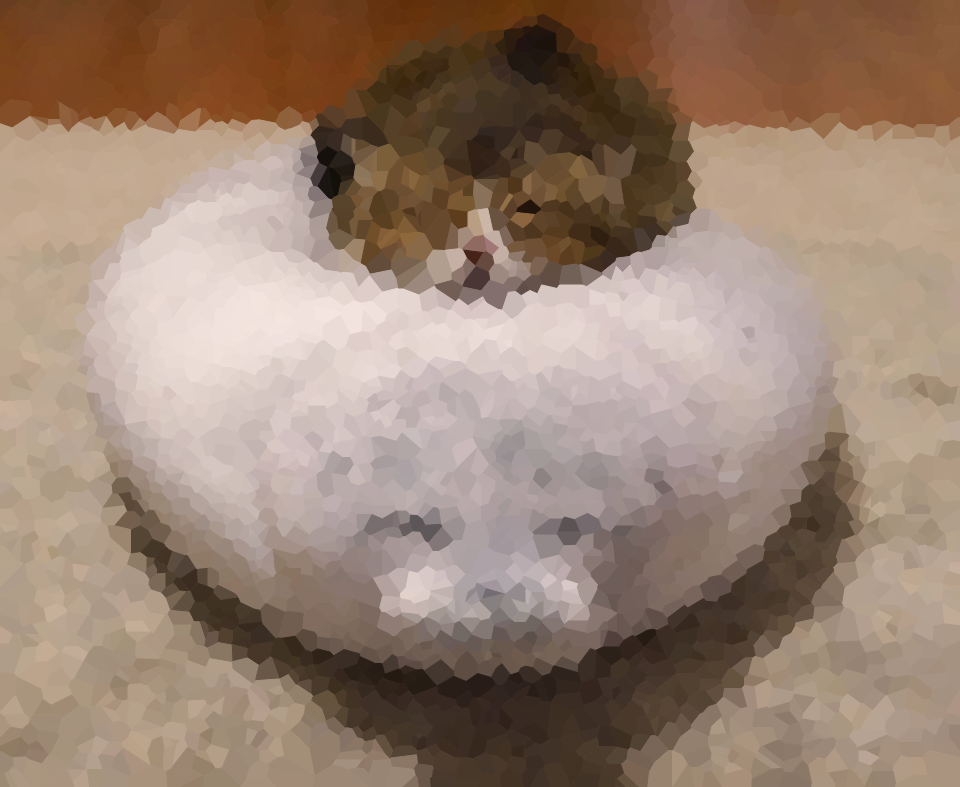
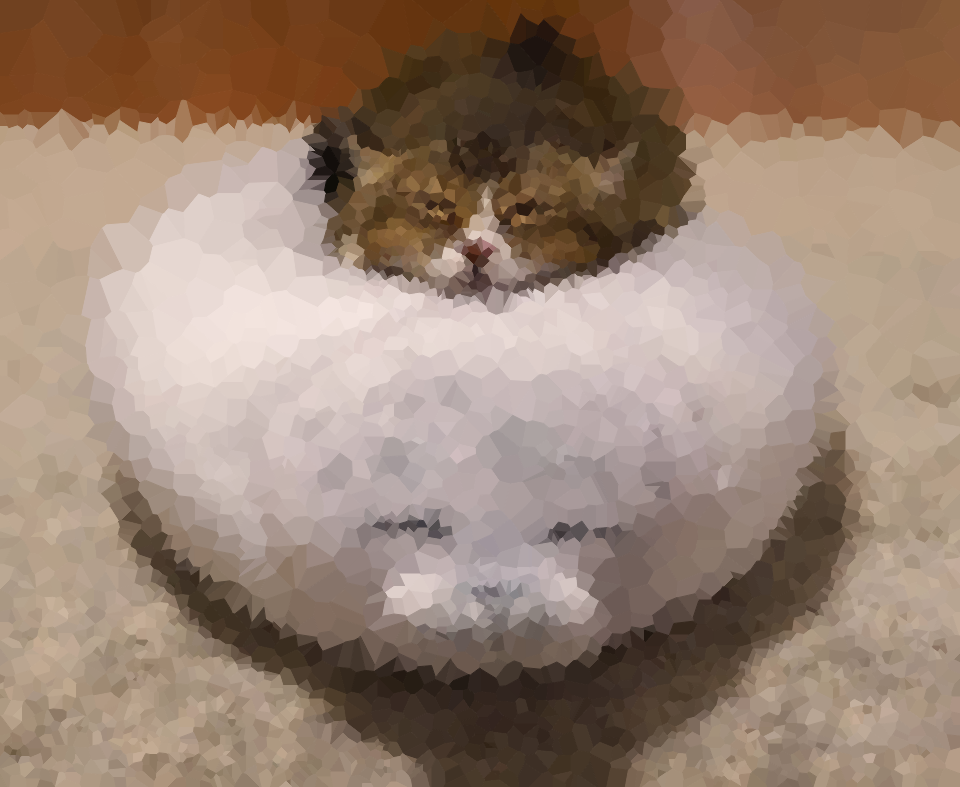
new options

diff --git a/src/views/About.vue b/src/views/About.vue
@@ -6,32 +6,102 @@
       <h3 class="intro">
         An image voronoi experiment. Each voronoi region is filled with average color in that region.
         <br />With the get high option, three voronoi diagrams is computed. Each of the three puts different weight on RGB channel, which creates an illution of getting high. Although, generate such image will take some time.
+        <br />The inverse option is a inverse point picking method for voronoi, this will lead to a different set of voronoi points.
+        <br />Hover over the images to have a better look!
       </h3>
+      <br />
     </div>
     <div class="row">
       <div class="column">
-        <img src="../assets/sample.jpg" alt="Input Image 1" style="width:100%" />
-        <!-- <h2 class="intro">Original Image</h2> -->
+        <h3 class="intro">Original Image</h3>
+        <br />
+        <img class="sample-image" src="../assets/sample.jpg" alt="Original image" />
       </div>
       <div class="column">
-        <img src="../assets/sample-voronoi.png" alt="Generated Image 1" style="width:100%" />
-        <!-- <h2 class="intro">Generated Image</h2> -->
+        <h3 class="intro">Generated Voronoi</h3>
+        <br />
+        <img class="sample-image" src="../assets/sample-voronoi.png" alt="Generated voronoi image" />
       </div>
       <div class="column">
-        <img src="../assets/sample-voronoi-high.png" alt="Generated Image with High Option" style="width:100%" />
-        <!-- <h2 class="intro">Get High</h2> -->
+        <h3 class="intro">Getting High</h3>
+        <br />
+        <img
+          class="sample-image"
+          src="../assets/sample-voronoi-high.png"
+          alt="Generated Image with High Option"
+        />
       </div>
       <div class="column">
-        <img src="../assets/sample2.jpeg" alt="Input Image 2" style="width:100%" />
-        <!-- <h2 class="intro">Original Image</h2> -->
+        <h3 class="intro">Voronoi with inverse point picking</h3>
+        <br />
+        <img
+          class="sample-image"
+          src="../assets/sample-voronoi-inverse.png"
+          alt="Generated image with inverse point picking"
+        />
       </div>
       <div class="column">
-        <img src="../assets/sample2-voronoi.png" alt="Generated Image 2" style="width:100%" />
-        <!-- <h2 class="intro">Generated Image</h2> -->
+        <h3 class="intro">Getting high with inverse PP</h3>
+        <br />
+        <img
+          class="sample-image"
+          src="../assets/sample-voronoi-inverse-high.png"
+          alt="Generated image with inverse point picking and getting high"
+        />
       </div>
       <div class="column">
-        <img src="../assets/sample2-voronoi-high.png" alt="Generated Image with High Option" style="width:100%" />
-        <!-- <h2 class="intro">Get High</h2> -->
+        <img class="sample-image" src="../assets/sample2.jpg" alt="Original image" />
+      </div>
+      <div class="column">
+        <img class="sample-image" src="../assets/sample2-voronoi.png" alt="Generated voronoi image" />
+      </div>
+      <div class="column">
+        <img
+          class="sample-image"
+          src="../assets/sample2-voronoi-high.png"
+          alt="Generated Image with High Option"
+        />
+      </div>
+      <div class="column">
+        <img
+          class="sample-image"
+          src="../assets/sample2-voronoi-inverse.png"
+          alt="Generated image with inverse point picking"
+        />
+      </div>
+      <div class="column">
+        <img
+          class="sample-image"
+          src="../assets/sample2-voronoi-inverse-high.png"
+          alt="Generated image with inverse point picking and getting high"
+        />
+      </div>
+      <div class="column">
+        <img class="sample-image" src="../assets/sample3.jpg" alt="Original image" />
+      </div>
+      <div class="column">
+        <img class="sample-image" src="../assets/sample3-voronoi.png" alt="Generated voronoi image" />
+      </div>
+      <div class="column">
+        <img
+          class="sample-image"
+          src="../assets/sample3-voronoi-high.png"
+          alt="Generated Image with High Option"
+        />
+      </div>
+      <div class="column">
+        <img
+          class="sample-image"
+          src="../assets/sample3-voronoi-inverse.png"
+          alt="Generated image with inverse point picking"
+        />
+      </div>
+      <div class="column">
+        <img
+          class="sample-image"
+          src="../assets/sample3-voronoi-inverse-high.png"
+          alt="Generated image with inverse point picking and getting high"
+        />
       </div>
     </div>
     <div class="row"></div>
@@ -52,7 +122,7 @@
 
 .column {
   float: left;
-  width: 33.33%;
+  width: 20%;
 }
 .row {
   padding-top: 0.5%;
@@ -61,5 +131,13 @@
   content: "";
   clear: both;
   display: table;
+}
+.sample-image {
+  width: 100%;
+  transition: transform 0.2s; /* Animation */
+}
+
+.sample-image:hover {
+  transform: scale(1.75);
 }
 </style>

diff --git a/src/components/ImageVoronoi.vue b/src/components/ImageVoronoi.vue
@@ -8,7 +8,6 @@
           flat
           dense
           dark
-          hide-details
           type="file"
           prepend-icon="mdi-camera"
           @change="onFileChange($event)"
@@ -36,7 +35,7 @@
             id="fill-input"
             :checked="ifRGB"
             @change="changeMode()"
-          />Get High
+          /> Get High
         </label>
       </div>
       <div class="control-wrapper">
@@ -51,6 +50,17 @@
           @change="changeRGB()"
           maxlength="2"
         />
+      </div>
+      <div class="control-wrapper">
+        <label class="selection-label" for="fill-input">
+          <input
+            class="control-input checkbox"
+            type="checkbox"
+            id="fill-input"
+            :checked="inversePP"
+            @change="changePP()"
+          /> Inverse PP 
+        </label>
       </div>
     </div>
     <div class="canvas-wrapper">
@@ -73,6 +83,7 @@ export default {
       sites: [],
       num_sites: 10,
       ifRGB: false,
+      inversePP: false,
       dosage: 0
     };
   },
@@ -97,7 +108,7 @@ export default {
     },
 
     drawVoronoi() {
-      var iv = new VoronoiDrawer(this.canvas, this.num_sites * 40);
+      var iv = new VoronoiDrawer(this.canvas, this.num_sites * 40, this.inversePP);
       if (this.ifRGB) {
         iv.RGBVoronoi(this.dosage);
       } else {
@@ -144,6 +155,10 @@ export default {
 
     changeMode() {
       this.ifRGB = !this.ifRGB;
+      this.drawImg();
+    },
+    changePP() {
+      this.inversePP = !this.inversePP;
       this.drawImg();
     }
   },

diff --git a/src/voronoi/ChoosePoints.js b/src/voronoi/ChoosePoints.js
@@ -1,12 +1,17 @@
 // let Chance = require("chance");
 class ChoosePoint {
-    constructor(imgData, width, height, n) {
+    constructor(imgData, width, height, n, inversePP) {
         this.imgData = new Array(width * height);
         this.n = n;
         this.width = width;
         this.height = height;
         for (var i = 0; i < imgData.length; i += 4) {
-            this.imgData[i / 4] = 256 - imgData[i] + 1;
+            this.imgData[i / 4] = imgData[i] + 1;
+        }
+        if (inversePP) {
+            for (i = 0; i < this.imgData.length; i++) {
+                this.imgData[i] = 257 - this.imgData[i];
+            }
         }
     }
 
@@ -20,7 +25,7 @@ class ChoosePoint {
             for (var j = x - radius; j <= x + radius; j++) {
                 if (i >= 0 && j >= 0 && j < this.width && i < this.height) {
                     var pos = i * this.width + j;
-                    this.imgData[pos] /= radius;
+                    this.imgData[pos] /= 2;
                 }
             }
         }

diff --git a/src/voronoi/VoronoiDrawer.js b/src/voronoi/VoronoiDrawer.js
@@ -6,11 +6,12 @@ var ChoosePoint = require("./ChoosePoints.js");
 var i = 0;
 var j = 0;
 class VoronoiDrawer {
-    constructor(canvas, num_sites) {
+    constructor(canvas, num_sites, inversePP) {
         this.canvas = canvas;
         this.width = canvas.width;
         this.height = canvas.height;
         this.num_sites = num_sites;
+        this.inversePP = inversePP
     }
 
     ComputeVoronoi() {
@@ -22,7 +23,8 @@ class VoronoiDrawer {
             sob,
             this.canvas.width,
             this.canvas.height,
-            this.num_sites
+            this.num_sites,
+            this.inversePP
         );
         var pos = cp.pickPosition();
         console.log("Sites picked", window.performance.now());

diff --git a/public/index.html b/public/index.html
@@ -4,7 +4,7 @@
     <meta charset="utf-8">
     <meta http-equiv="X-UA-Compatible" content="IE=edge">
     <meta name="viewport" content="width=device-width,initial-scale=1.0">
-    <link rel="icon" href="<%= BASE_URL %>favicon.ico">
+    <link rel="icon" href="<%= BASE_URL %>icon.jpg">
     <title><%= htmlWebpackPlugin.options.title %></title>
     <link rel="stylesheet" href="https://fonts.googleapis.com/css?family=Roboto:100,300,400,500,700,900">
     <link rel="stylesheet" href="https://cdn.jsdelivr.net/npm/@mdi/font@latest/css/materialdesignicons.min.css">
